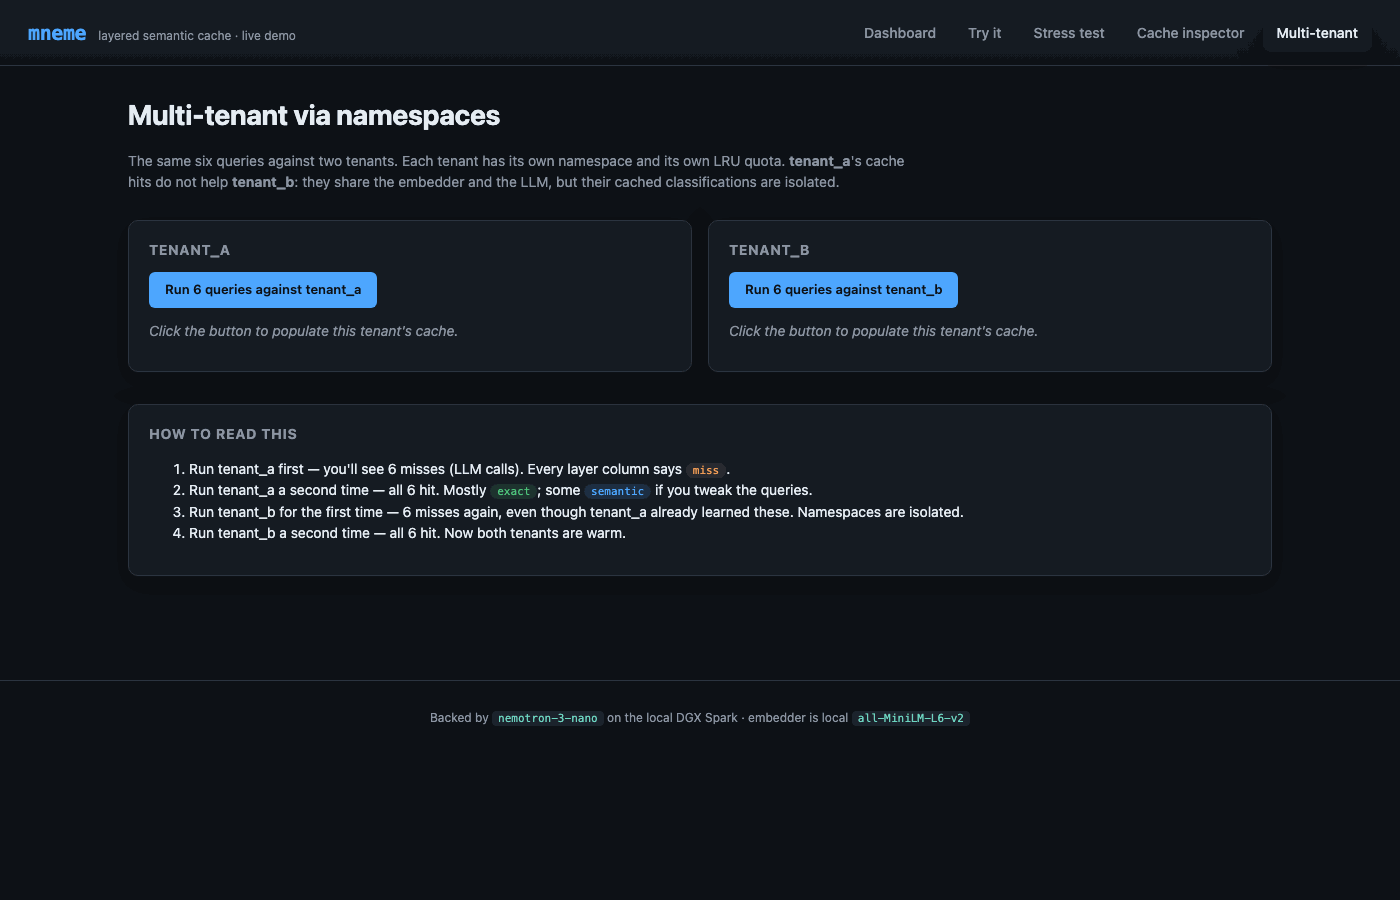
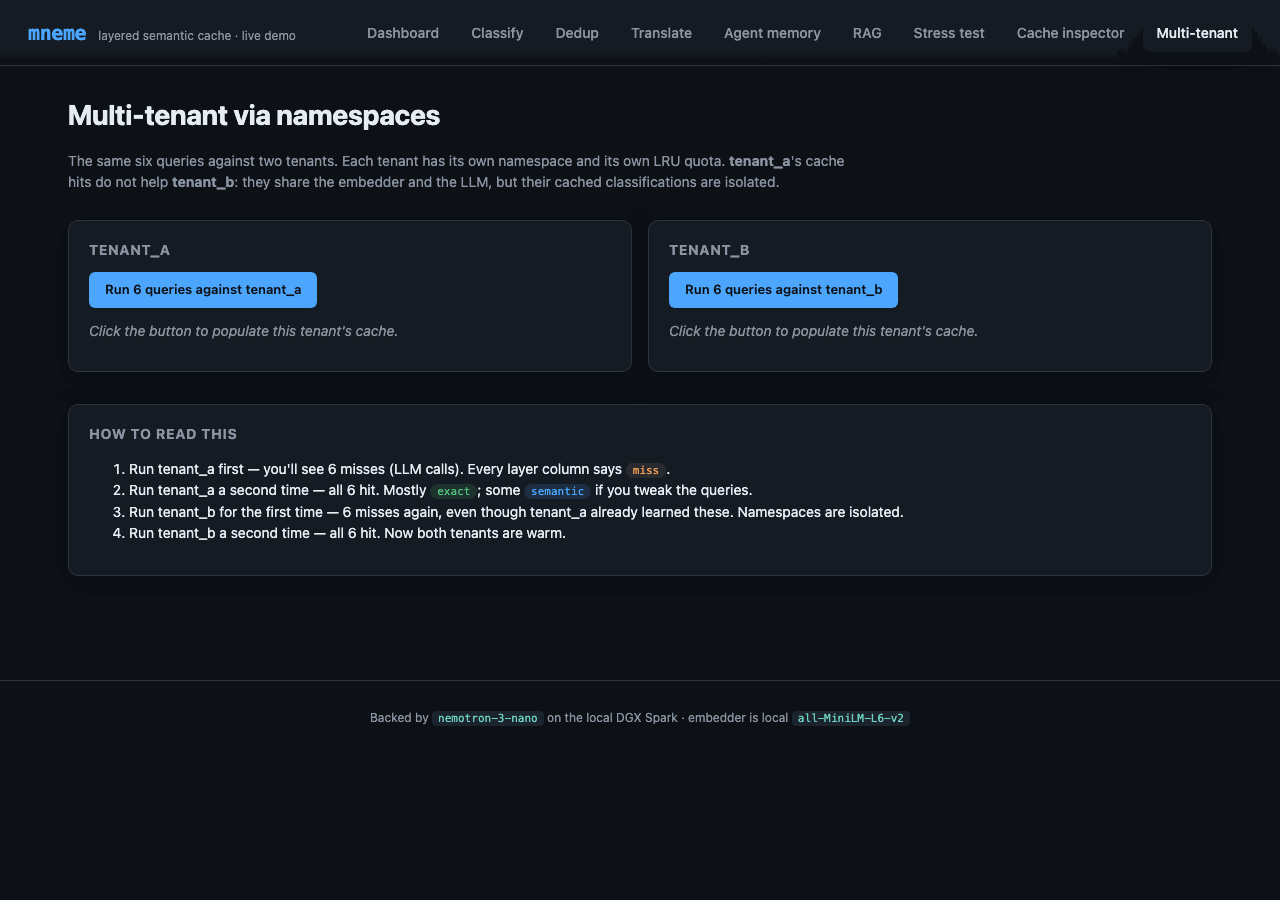
Refresh all 9 showcase screenshots (4 new for Dedup/Translate/Agent/RAG + 5 updated for the new dashboard), rewrite docs/showcase.md to cover all 5 use cases and the operational pages, and link the live demo from each use-cases.md pattern.

diff --git a/docs/showcase.md b/docs/showcase.md
@@ -1,37 +1,50 @@
 # Showcase
 
-A self-contained Flask app that classifies customer-support messages into 7 intents using `nemotron-3-nano` running on a [DGX Spark](https://www.nvidia.com/en-us/products/workstations/dgx-spark/) (or any Ollama-compatible host) - and shows what `mneme` does for an LLM workload that has paraphrases.
+A self-contained Flask app that demonstrates every one of `mneme`'s [use cases](use-cases.md) against a real LLM running on a [DGX Spark](https://www.nvidia.com/en-us/products/workstations/dgx-spark/) (or any Ollama-compatible host). The classification page is the marquee demo — paraphrases hitting cache instead of `nemotron-3-nano` is the kind of thing that lands in seconds — but the same Flask app also exposes Dedup, Translate, Agent memory, and RAG retrieval pages, each backed by the same `SemanticCache` and demonstrating its specific pattern.
 
-The pitch in one sentence: an intent classifier talking to a real LLM is slow and expensive on every call; this app makes that obvious in five pages, then makes it disappear by wrapping the call in `mneme.SemanticCache`.
+The pitch in one sentence: an LLM call is slow and expensive on every input; this app makes that obvious across five different pattern types, then makes it disappear by wrapping each call in `mneme.SemanticCache`.
 
 The full project lives at [`examples/showcase/`](https://github.com/anthonynystrom/mneme/tree/main/examples/showcase).
 
-## Why a Flask app
+## What's in the demo
 
-The showcase covers exactly *one* of the [use cases](use-cases.md) - pattern #4, classification result caching - and it does so visually because that's where the cache's behavior is most surprising to a viewer. Watching the latency drop from 500 ms to <1 ms when you submit a paraphrase is the kind of thing that lands in seconds.
+| Page | Pattern | Cache key | Cache value |
+|---|---|---|---|
+| **Classify** | Intent classification | message text | one of 7 intents |
+| **Dedup** | Semantic deduplication | content text | sentinel ``"seen"``; reads `Hit.similarity` directly |
+| **Translate** | Translation cache | source text + target lang (one namespace per pair) | translated text |
+| **Agent memory** | Per-agent task→plan | task description + agent_id (one namespace per agent) | execution plan |
+| **RAG** | RAG retrieval | question | JSON bundle of `(answer, contexts, chunk_ids)` |
+| **Stress test** | (operational) bulk classification | — | — |
+| **Cache inspector** | (operational) raw entry view | — | — |
+| **Multi-tenant** | (operational) namespace quotas | — | — |
+| **Dashboard** | (operational) live stats + maintenance | — | — |
 
-For the other patterns (RAG retrieval, translation, dedup, agent memory) the killer moment is `print(result)`, not a UI. Those have small focused scripts under [`examples/use-cases/`](use-cases.md#runnable-examples) instead.
+Each page demonstrates a slightly different shape of the same library — read [`examples/showcase/use_cases.py`](https://github.com/anthonynystrom/mneme/blob/main/examples/showcase/use_cases.py) for the wrappers (`Deduplicator`, `CachedTranslator`, `CachedAgent`, `CachedRAG`). They're under 150 lines combined; the patterns are short.
 
-## The five pages, in order
+## The pages
 
-### Dashboard - live counters
+The dashboard and the five use-case pages cover the library's capabilities; three operational pages (Stress, Inspector, Multi-tenant) demonstrate workflows around it.
 
-![Dashboard with live counters, threshold slider, namespace breakdown, recent queries](_static/showcase-dashboard.png)
+### Dashboard - live counters and maintenance
+
+![Dashboard with live counters, threshold slider, RAM/tombstone display, namespace-scoped Clear, Compact button](_static/showcase-dashboard.png)
 
 Polls `/api/stats` once a second. Surfaces every meaningful piece of state:
 
 - **LLM-seconds saved** - the headline number; this is *why mneme exists* in one stat.
 - **Cache hit rate** - climbs as paraphrases land on cached entries.
-- **Cached entries** - total memory footprint of the in-memory matrix.
+- **Cached entries** - total entry count, plus the actual matrix bytes (`Stats.index_memory_bytes`) and tombstone count (`Stats.index_tombstone_count`) so you can spot RAM drift.
 - **Layer breakdown** - exact-match vs semantic-match vs miss counts.
 - **Per-namespace breakdown** - proves the multi-tenant story (each tenant's traffic isolated).
 - **Recent queries** - a ring buffer of the last 50, color-coded by layer (green=exact, blue=semantic, orange=miss).
 - **Similarity threshold slider** - adjusts the cache's runtime knob from the UI. Drag it left, more queries become semantic hits; drag right, fewer hits but tighter precision. Calls `cache.set_similarity_threshold(value)` debounced at 150 ms while dragging.
-- **Clear cache button** (in the footer, danger zone) - wipes every namespace via `cache.clear()` and resets counters. Useful for repeating a demo from cold.
+- **Compact button** (Maintenance card) - calls `cache.compact()` to reclaim tombstoned matrix rows; reports reclaimed count.
+- **Clear cache** (Danger zone) - namespace-scoped via the dropdown: pick "All namespaces" for `cache.clear()`, or pick a specific tenant for `cache.clear_namespace(ns)`.
 
-### Try it - single-query playground
+### Classify - single-query intent classification
 
-![Try it page with preset chips, message form, namespace selector, side-by-side cache-on / no-cache result panes](_static/showcase-try.png)
+![Classify page with preset chips, message form, namespace selector, side-by-side cache-on / no-cache result panes](_static/showcase-try.png)
 
 Submit one query at a time and see the cache decide. The right column shows the same query with the cache **bypassed** - same model, same prompt, every time - for direct wall-clock timing comparison.
 
@@ -43,6 +56,48 @@ The narrative arc:
 4. Click "**Same query, no cache**". Status: `miss`. Latency: ~500 ms again. The cache didn't lift a finger this time - that's the cost you'd pay on every request without mneme.
 
 Step 3 is the moment the demo earns its keep.
+
+### Dedup - semantic deduplication, no LLM
+
+![Dedup page with input textarea, sample list, results table showing KEEP/DROP decisions and similarity scores](_static/showcase-dedup.png)
+
+Different shape from the LLM cache: read `Hit.similarity`, ignore `Hit.response`. The cache becomes a "have I seen something this close before?" detector. Threshold is stricter (0.85) than the LLM-cache default because false positives drop real content.
+
+Paste a list, hit Run. The results table tags each row as KEEP (novel) or DROP (near-duplicate of a prior row), with the similarity score. The "Load sample" button populates a small set with deliberate paraphrase pairs so you can see the layer behavior — same string twice → exact-match drop; rephrased string → semantic-match drop with the score; unrelated string → KEEP.
+
+Backed by [`Deduplicator`](https://github.com/anthonynystrom/mneme/blob/main/examples/showcase/use_cases.py) — under 30 lines.
+
+### Translate - per-language-pair caching
+
+![Translate page with target-language selector, source textarea, translated output, layer + latency badges, history table](_static/showcase-translate.png)
+
+Each `(source, target)` pair gets its own namespace (`translate:en-fr`, `translate:en-es`, …) so a French hit can't leak into a German request. Translation comes from Nemotron with a "translate this exactly" system prompt.
+
+Try it: translate the same sentence twice → exact-match (~ms). Pick a different target language → miss for the new pair, exact-match for the original pair. Paraphrase the source → semantic-match against the prior translation; the LLM is not called.
+
+Backed by [`CachedTranslator`](https://github.com/anthonynystrom/mneme/blob/main/examples/showcase/use_cases.py).
+
+### Agent memory - per-agent task→plan with confidence gate
+
+![Agent memory page with agent selector (alice/bob), task input, generated multi-line plan, layer + latency, history table](_static/showcase-agent.png)
+
+LLM agents need memory of prior decisions for consistency. mneme provides task-embedding → plan lookup, with a `confidence >= 0.7` gate so degraded similarity doesn't pull in stale plans. Per-agent namespace (`agent:alice`, `agent:bob`) keeps memories isolated.
+
+Try it: generate a plan for alice. Re-run the same task as alice → exact-match cache hit. Switch to bob → miss (separate memory). Paraphrase alice's task → semantic-match with confidence-gated reuse.
+
+Backed by [`CachedAgent`](https://github.com/anthonynystrom/mneme/blob/main/examples/showcase/use_cases.py).
+
+### RAG - retrieval cache with synthesized answer
+
+![RAG page with question input, generated answer, retrieved chunks list with IDs, layer + latency, history table](_static/showcase-rag.png)
+
+A single cached entry stores the entire RAG bundle: the synthesized answer, the top-k retrieved chunks, and their IDs as a JSON-encoded payload. So a paraphrased question reuses both the retrieval *and* the synthesis in one shot — milliseconds instead of hundreds of ms (retrieval) plus seconds (LLM synthesis).
+
+Corpus is 12 customer-support FAQ chunks shipped in [`use_cases.py`](https://github.com/anthonynystrom/mneme/blob/main/examples/showcase/use_cases.py). Top-3 retrieval over cosine similarity against the same `all-MiniLM-L6-v2` embedder. Synthesis from Nemotron with a strict "use only the context" system prompt and `[1]/[2]/[3]` source citations.
+
+Try it: ask about password reset. First call: ~1–2 s (retrieval + Nemotron). Re-ask same question → exact-match (~ms). Paraphrase ("How do I change my password?") → semantic-match returns the same bundle.
+
+Backed by [`CachedRAG`](https://github.com/anthonynystrom/mneme/blob/main/examples/showcase/use_cases.py).
 
 ### Stress test - cumulative hit-rate live
 
@@ -82,12 +137,12 @@ This is the multi-tenancy story made concrete: same cache, same embedder, same L
 
 ## What's running under the hood
 
-- **LLM**: `nemotron-3-nano` (31.6 B Nemotron-H-MoE, Q4_K_M) served by Ollama at `http://spark-245d.local:11434`. Cold call ~4 s (model load); warm ~0.5 s.
+- **LLM**: `nemotron-3-nano` (31.6 B Nemotron-H-MoE, Q4_K_M) served by Ollama. The default config points at `http://localhost:11434`; override with `MNEME_SHOWCASE_SPARK_URL=http://your-host:11434` to point at a remote box (e.g. a DGX Spark on your LAN). Cold call ~4 s (model load); warm ~0.5 s.
 - **Embedder**: `sentence-transformers/all-MiniLM-L6-v2` (384-dim) running locally on CPU, ~80 MB memory.
 - **Cache**: `SemanticCache` against SQLite at `examples/showcase/cache.db`. `vector_dtype="float16"`. Threshold calibrated to 0.65 against the seed corpus.
-- **Web**: Flask 3 in `app.run(threaded=True)`. No external services beyond the Spark; no auth.
+- **Web**: Flask 3 in `app.run(threaded=True)`. No external services beyond the LLM host; no auth.
 
-Every public `mneme` API is exercised somewhere in the app. `app.py` is ~270 lines and shows: `SemanticCache.__init__`, `get`, `put`, `stats`, `list_namespaces`, `clear`, `set_similarity_threshold`, `vacuum`, plus the `Hit` / `Stats` dataclasses, the `MetricsHook` Protocol, and namespace-scoped operations. If you want to copy a pattern into your own service, start there.
+Every public `mneme` API is exercised somewhere in the app. The cache wrappers live in [`use_cases.py`](https://github.com/anthonynystrom/mneme/blob/main/examples/showcase/use_cases.py) (under 250 lines covering all four secondary patterns). `app.py` adds the routes around them and shows: `SemanticCache.__init__`, `get` (including `bypass=True`), `put`, `delete`, `stats`, `list_namespaces`, `clear`, `clear_namespace`, `compact`, `vacuum`, `set_similarity_threshold`, plus the `Hit` / `Stats` dataclasses and namespace-scoped operations. If you want to copy a pattern into your own service, start in `use_cases.py`.
 
 ## Running it
 
@@ -101,8 +156,9 @@ source .venv/bin/activate
 pip install -r requirements.txt
 pip install -e ../..                             # editable install of mneme
 
-# Sanity-check the LLM host (defaults to spark-245d.local; override below)
-curl -fsS http://spark-245d.local:11434/api/tags
+# Sanity-check the LLM host (defaults to localhost; set MNEME_SHOWCASE_SPARK_URL
+# to a remote host like http://your-spark.local:11434 if Ollama isn't local).
+curl -fsS "${MNEME_SHOWCASE_SPARK_URL:-http://localhost:11434}/api/tags"
 
 python app.py
 ```
@@ -115,7 +171,7 @@ Everything lives in [`config.py`](https://github.com/anthonynystrom/mneme/blob/m
 
 | Variable | Default | Notes |
 | --- | --- | --- |
-| `MNEME_SHOWCASE_SPARK_URL` | `http://spark-245d.local:11434` | Ollama host |
+| `MNEME_SHOWCASE_SPARK_URL` | `http://localhost:11434` | Ollama host (override to point at a remote DGX/server) |
 | `MNEME_SHOWCASE_MODEL` | `nemotron-3-nano:latest` | Any Ollama model that follows JSON-format instructions |
 | `MNEME_SHOWCASE_LLM_TIMEOUT` | `60` | Seconds |
 | `MNEME_SHOWCASE_EMBEDDER` | `sentence-transformers/all-MiniLM-L6-v2` | Local embedder |
@@ -128,7 +184,6 @@ Everything lives in [`config.py`](https://github.com/anthonynystrom/mneme/blob/m
 - **Not a library.** The showcase is a demo, not part of the installed `mneme` wheel. It lives in `examples/showcase/` and ships its own `requirements.txt`.
 - **Not production code.** No auth, no TLS, no WSGI server. It's `app.run()` for clarity. Don't expose it on the open internet.
 - **Not the only way to use mneme.** It's *one* shape - Flask in front of an LLM. Most production users wrap the cache around the LLM call inside their own service. See [Your first cached LLM](getting-started/your-first-cached-llm.md).
-- **Not a multi-use-case demo by design.** Other [use cases](use-cases.md) get small focused scripts instead of UI pages, because their killer moment is plain output, not visual interaction.
 
 ## Code layout
 
@@ -137,13 +192,14 @@ examples/showcase/
   README.md                 # quickstart + troubleshooting
   requirements.txt          # Flask, sentence-transformers, requests, numpy
   config.py                 # central config + env var overrides
-  app.py                    # Flask routes + AppState
-  classifier.py             # the cache wrapping the LLM (the demo's whole point)
-  nemotron_client.py        # Ollama HTTP client with think:false + format:json
+  app.py                    # Flask routes + AppState (~600 lines)
+  classifier.py             # CachedClassifier wrapping the LLM
+  use_cases.py              # Deduplicator, CachedTranslator, CachedAgent, CachedRAG + RAG corpus
+  nemotron_client.py        # Ollama HTTP client (classify + translate + plan + RAG synthesis)
   embedder.py               # SentenceTransformersEmbedder
   seed_data.py              # 73 labeled paraphrases across 7 intents
   calibrate.py              # threshold tuning script
-  templates/                # 5 pages
+  templates/                # 9 pages: dashboard + 5 use cases + 3 operational
   static/                   # style.css + app.js
 ```
 

diff --git a/docs/use-cases.md b/docs/use-cases.md
@@ -28,7 +28,7 @@ def retrieve(question: str, namespace: str = "rag") -> list[dict]:
 
 Pair with [confidence-and-validators](concepts/confidence-and-validators.md) to refresh stale retrievals - e.g. `confidence_fn` that drops to 0 after the document index version changes.
 
-Runnable: [`examples/use_cases/rag_retrieval.py`](https://github.com/anthonynystrom/mneme/blob/main/examples/use_cases/rag_retrieval.py)
+Runnable: [`examples/use_cases/rag_retrieval.py`](https://github.com/anthonynystrom/mneme/blob/main/examples/use_cases/rag_retrieval.py) · live UI under [`/rag`](showcase.md) on the showcase, backed by a 12-chunk FAQ corpus.
 
 ## 2. Translation caching
 
@@ -50,7 +50,7 @@ def translate(text: str, target_lang: str) -> str:
 
 Each `(source_lang, target_lang)` pair gets its own namespace so a German cache hit can't leak into a French request. Per-namespace LRU quotas (see [Multi-tenant](concepts/multi-tenant.md)) cap each language pair independently.
 
-Runnable: [`examples/use_cases/translation.py`](https://github.com/anthonynystrom/mneme/blob/main/examples/use_cases/translation.py)
+Runnable: [`examples/use_cases/translation.py`](https://github.com/anthonynystrom/mneme/blob/main/examples/use_cases/translation.py) · live UI under [`/translate`](showcase.md) on the showcase, backed by Nemotron and one namespace per `en→<lang>` pair.
 
 ## 3. Semantic deduplication
 
@@ -92,7 +92,7 @@ The default threshold here (0.92) is stricter than the LLM-cache default (0.85) 
 
     The cache's default `Validator` rejects empty responses on Layer-2 lookup, so storing `cache.put(content, "")` will not work for the dedup pattern - the entry exists but Layer-2 hits skip it. Use a non-empty marker like `"seen"` (see the runnable example) or pass a custom `validator=` that accepts empty strings.
 
-Runnable: [`examples/use_cases/dedup.py`](https://github.com/anthonynystrom/mneme/blob/main/examples/use_cases/dedup.py)
+Runnable: [`examples/use_cases/dedup.py`](https://github.com/anthonynystrom/mneme/blob/main/examples/use_cases/dedup.py) · live UI under [`/dedup`](showcase.md) on the showcase — paste a list, watch near-paraphrases get flagged with their similarity score.
 
 ## 4. Classification result caching
 
@@ -115,7 +115,7 @@ Combined with [validators](concepts/confidence-and-validators.md), you can refus
 
 This works for **anything that takes text in and returns a category**, not just LLM-based classification. The showcase ([Showcase](showcase.md)) is the LLM variant; the same pattern applies to a sklearn pipeline you trained five years ago.
 
-Runnable: [`examples/use_cases/classification.py`](https://github.com/anthonynystrom/mneme/blob/main/examples/use_cases/classification.py)
+Runnable: [`examples/use_cases/classification.py`](https://github.com/anthonynystrom/mneme/blob/main/examples/use_cases/classification.py) · live UI under [`/try`](showcase.md) on the showcase — Nemotron classifies customer-support intents, paraphrases hit the cache.
 
 ## 5. Agent memory
 
@@ -138,7 +138,7 @@ def execute_task(task_description: str, agent_id: str) -> str:
 
 The `confidence >= 0.7` gate (see [Confidence](concepts/confidence-and-validators.md)) drops stale memories - useful when the agent's environment changes (new tools available, policy update, etc.). Custom `confidence_fn=` can encode "drop memories older than the most recent agent version".
 
-Runnable: [`examples/use_cases/agent_memory.py`](https://github.com/anthonynystrom/mneme/blob/main/examples/use_cases/agent_memory.py)
+Runnable: [`examples/use_cases/agent_memory.py`](https://github.com/anthonynystrom/mneme/blob/main/examples/use_cases/agent_memory.py) · live UI under [`/agent`](showcase.md) on the showcase — pick an agent (alice/bob), watch the same task fan out to a fresh plan per agent.
 
 ## What ties them together
 
@@ -182,4 +182,4 @@ In production, swap the toy embedder for a real one - see [Bring your own embedd
 - **[Your first cached LLM](getting-started/your-first-cached-llm.md)** - the canonical pattern in detail.
 - **[Multi-tenant](concepts/multi-tenant.md)** - namespaces are the lever for "different request, different cache slice".
 - **[Calibration](guides/calibration.md)** - picking the right threshold per use case.
-- **[Showcase](showcase.md)** - pattern #4 (classification) live, with a UI.
+- **[Showcase](showcase.md)** - all five patterns live, with a UI per pattern.

diff --git a/docs/changelog.md b/docs/changelog.md
@@ -81,7 +81,7 @@ All five satisfy the same `Store` Protocol and pass the same conformance battery
 
 - 7 standalone runnable scripts: `quickstart.py`, `async_quickstart.py`, `multi_tenant.py`, `high_dim_quantized.py`, `custom_store.py`, `calibration.py`, `dynamodb_quickstart.py`.
 - 4 reference embedder snippets: OpenAI, sentence-transformers, AWS Bedrock (Titan + Cohere), Ollama.
-- Flask showcase under `examples/showcase/` - 5-page UI demonstrating the layered cache, namespace isolation, persistence, and a live similarity-threshold slider against `nemotron-3-nano` on a DGX Spark.
+- Flask showcase under `examples/showcase/` - multi-page UI covering all five use cases (Classify, Dedup, Translate, Agent memory, RAG retrieval) against `nemotron-3-nano` on a DGX Spark, plus operational pages (Dashboard with RAM/tombstone display + Compact button + namespace-scoped Clear, Stress test with Reset/Bypass toggles, Cache inspector, Multi-tenant). Each use case is wired to the same `SemanticCache` and demonstrates its specific pattern (sentinel responses for dedup, per-language-pair namespaces for translation, per-agent confidence-gated reuse for agent memory, JSON-bundled `(answer, contexts)` for RAG).
 
 #### Documentation
 

diff --git a/README.md b/README.md
@@ -105,7 +105,7 @@ Apple M4 Max baseline at 100k entries (full table on the [docs site](https://ant
 | [Guides](https://anthonynystrom.github.io/mneme/guides/calibration/) | Calibration, checkpoints, re-embed migration, metrics, custom stores, perf tuning |
 | [API reference](https://anthonynystrom.github.io/mneme/reference/cache/) | Auto-generated from docstrings |
 | [Performance](https://anthonynystrom.github.io/mneme/performance/) | Measured baseline against the original targets |
-| [Showcase](https://anthonynystrom.github.io/mneme/showcase/) | Flask demo: customer-support intent classification w/ Nemotron on a DGX Spark |
+| [Showcase](https://anthonynystrom.github.io/mneme/showcase/) | Flask demo covering all 5 use cases against Nemotron on a DGX Spark |
 | [Changelog](https://anthonynystrom.github.io/mneme/changelog/) | Release notes |
 
 ## Comparison
